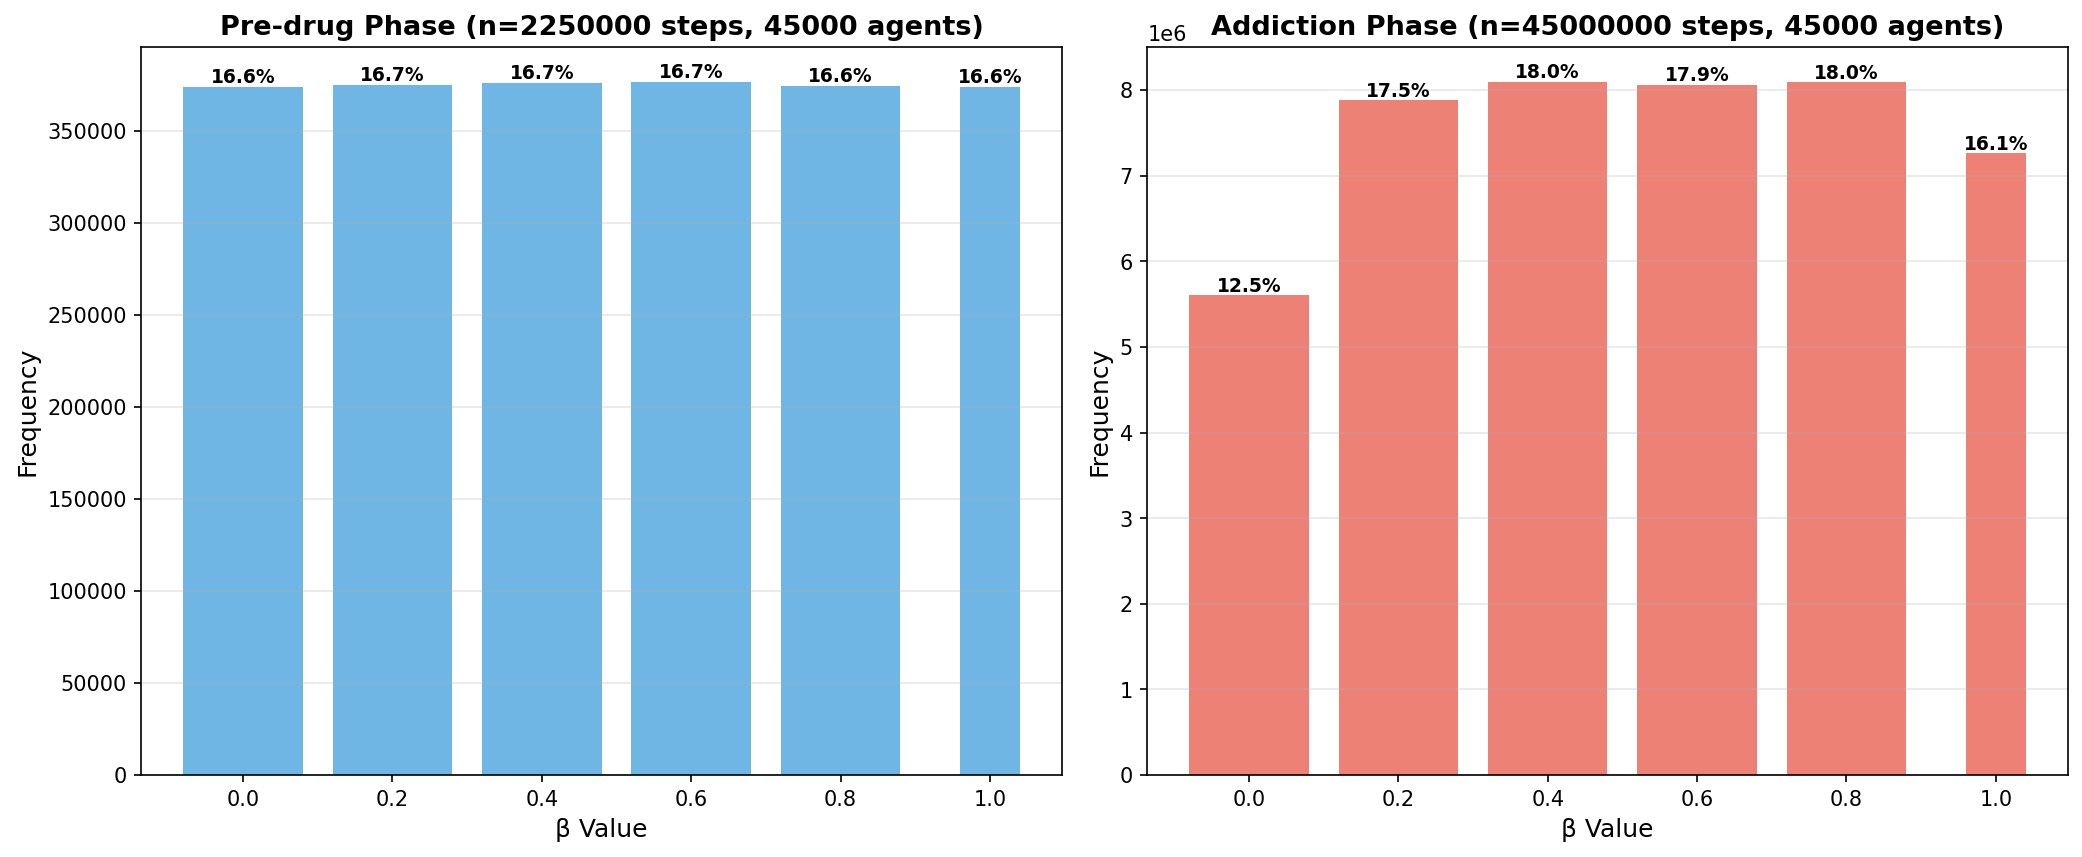
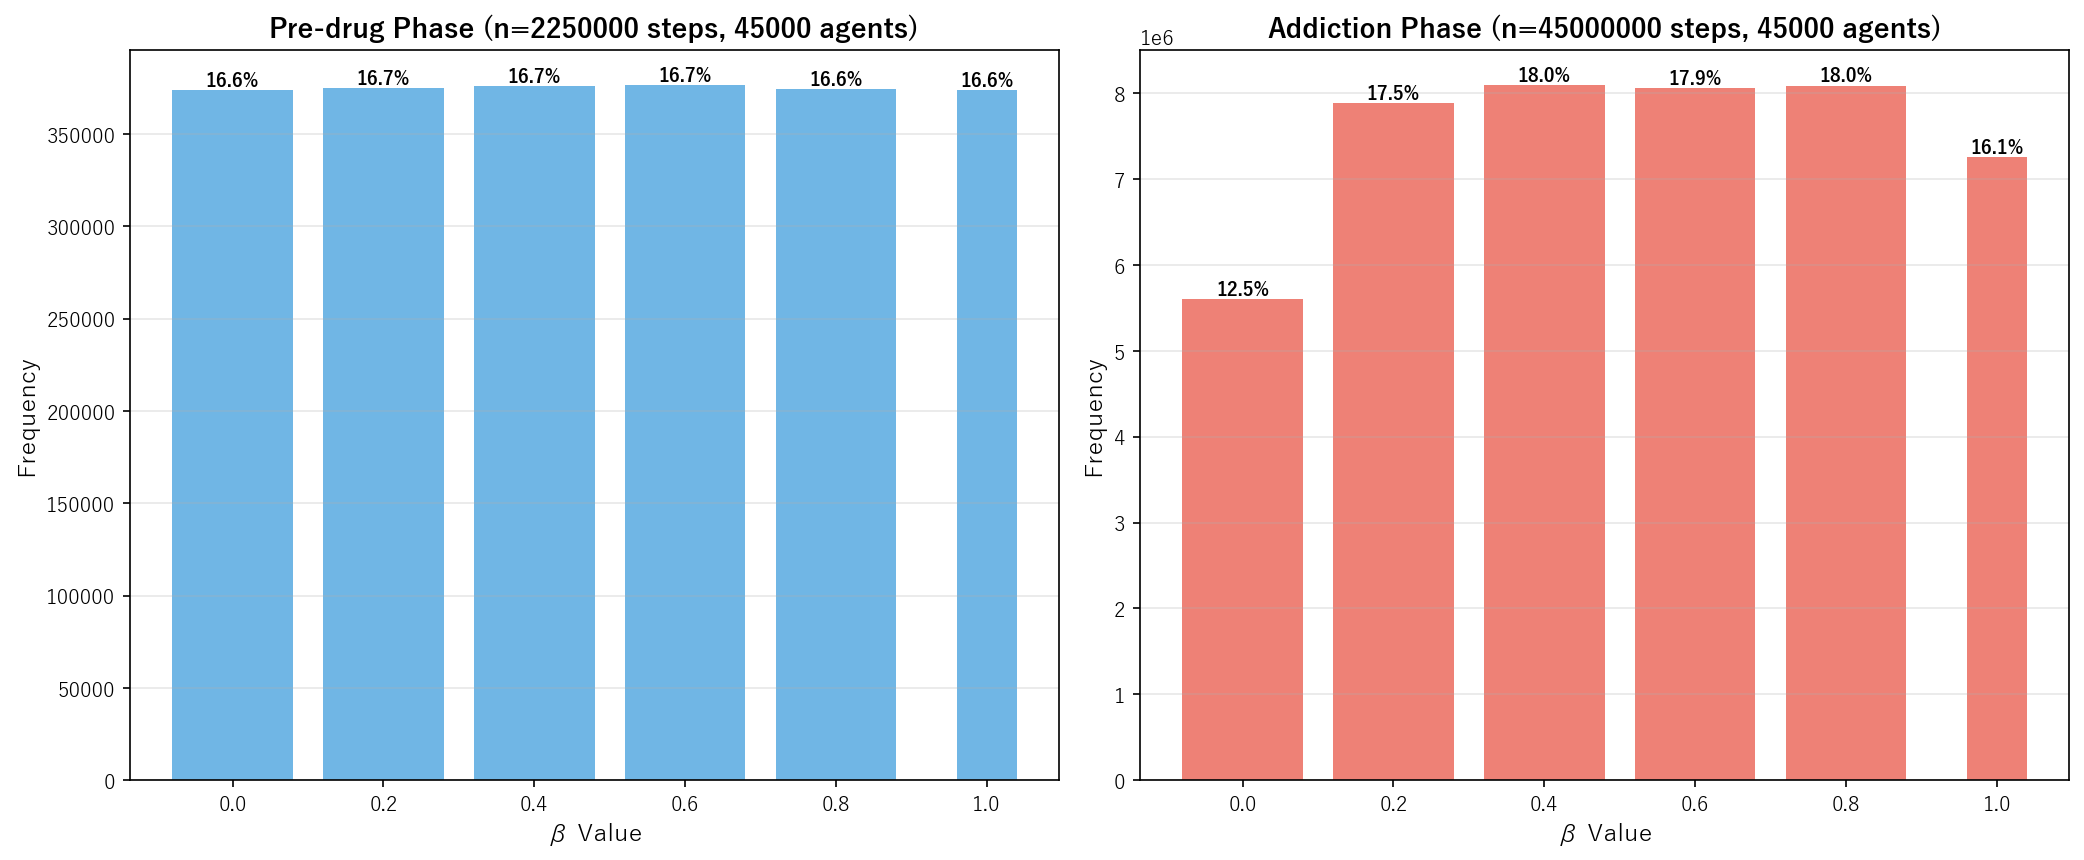
グラフ描画改善

diff --git a/addiction_rl_sim.py b/addiction_rl_sim.py
@@ -781,6 +781,11 @@ def plot_beta_analysis(beta_stats: BetaStatistics, output_prefix: str = "beta_an
     """β選択の分析グラフを複数作成（全エージェントの平均±標準偏差）"""
     import matplotlib.pyplot as plt
     from matplotlib.gridspec import GridSpec
+    import matplotlib
+    
+    # 日本語フォント設定（Windows環境）
+    matplotlib.rcParams['font.family'] = ['Yu Gothic', 'MS Gothic', 'Meiryo', 'sans-serif']
+    matplotlib.rcParams['axes.unicode_minus'] = False  # マイナス記号の文字化け対策
     
     # 全エージェントのデータを2次元配列に変換
     # beta_history_all: List[List[float]] -> (num_agents, num_steps)
@@ -1350,83 +1355,106 @@ def plot_beta_analysis(beta_stats: BetaStatistics, output_prefix: str = "beta_an
         print(f"Saved: {output_prefix}_detailed_analysis.png")
         plt.close()
         
-        # ===== Figure 7: 依存/非依存エージェントのβ選択推移（各β値の使用率の時系列） =====
+        # ===== Figure 7: 依存/非依存エージェントのβ選択推移（各β値の使用率の時系列、移動平均版） =====
         fig7, axes7 = plt.subplots(2, 1, figsize=(16, 10))
         
-        # 各時刻での各β値の使用頻度を計算
-        # Addicted group
-        beta_freq_add_over_time = np.zeros((len(BETA_VALUES), len(step_array)))
-        for agent_idx, is_addicted in enumerate(addiction_array):
-            if is_addicted:
-                for t_idx, beta_val in enumerate(beta_matrix[agent_idx]):
-                    beta_idx = np.argmin(np.abs(BETA_VALUES - beta_val))
-                    beta_freq_add_over_time[beta_idx, t_idx] += 1
+        # 時間窓の設定（移動平均のウィンドウサイズ）
+        window_size = 50  # 50ステップごとの移動平均
         
-        # 正規化（各時刻での割合に変換）
+        # ウィンドウの中心位置を計算
+        n_windows = len(step_array) // window_size
+        window_centers = []
+        
+        # 各β値の使用率を時間窓ごとに計算
+        beta_usage_addicted = {beta: [] for beta in BETA_VALUES}
+        beta_usage_non_addicted = {beta: [] for beta in BETA_VALUES}
+        
         n_addicted_agents = np.sum(addiction_array)
-        if n_addicted_agents > 0:
-            beta_freq_add_over_time = beta_freq_add_over_time / n_addicted_agents * 100
-        
-        # Non-addicted group
-        beta_freq_non_over_time = np.zeros((len(BETA_VALUES), len(step_array)))
-        for agent_idx, is_addicted in enumerate(addiction_array):
-            if not is_addicted:
-                for t_idx, beta_val in enumerate(beta_matrix[agent_idx]):
-                    beta_idx = np.argmin(np.abs(BETA_VALUES - beta_val))
-                    beta_freq_non_over_time[beta_idx, t_idx] += 1
-        
-        # 正規化
         n_non_addicted_agents = len(addiction_array) - n_addicted_agents
-        if n_non_addicted_agents > 0:
-            beta_freq_non_over_time = beta_freq_non_over_time / n_non_addicted_agents * 100
         
-        # Addicted群のプロット
-        ax7_1 = axes7[0]
+        for w in range(n_windows):
+            start_idx = w * window_size
+            end_idx = min((w + 1) * window_size, len(step_array))
+            window_centers.append(step_array[start_idx + (end_idx - start_idx) // 2])
+            
+            # 依存群: この時間窓でのβ値を収集
+            window_beta_addicted = []
+            for agent_idx, is_addicted in enumerate(addiction_array):
+                if is_addicted:
+                    window_beta_addicted.extend(beta_matrix[agent_idx, start_idx:end_idx])
+            
+            # 非依存群: この時間窓でのβ値を収集
+            window_beta_non_addicted = []
+            for agent_idx, is_addicted in enumerate(addiction_array):
+                if not is_addicted:
+                    window_beta_non_addicted.extend(beta_matrix[agent_idx, start_idx:end_idx])
+            
+            # 各β値の使用率を計算（依存群）
+            if len(window_beta_addicted) > 0:
+                for beta in BETA_VALUES:
+                    usage_rate = np.sum(np.isclose(window_beta_addicted, beta)) / len(window_beta_addicted) * 100
+                    beta_usage_addicted[beta].append(usage_rate)
+            else:
+                for beta in BETA_VALUES:
+                    beta_usage_addicted[beta].append(0)
+            
+            # 各β値の使用率を計算（非依存群）
+            if len(window_beta_non_addicted) > 0:
+                for beta in BETA_VALUES:
+                    usage_rate = np.sum(np.isclose(window_beta_non_addicted, beta)) / len(window_beta_non_addicted) * 100
+                    beta_usage_non_addicted[beta].append(usage_rate)
+            else:
+                for beta in BETA_VALUES:
+                    beta_usage_non_addicted[beta].append(0)
+        
+        # カラーマップ
         colors_beta = plt.cm.viridis(np.linspace(0, 1, len(BETA_VALUES)))
-        
-        for beta_idx, beta_val in enumerate(BETA_VALUES):
-            ax7_1.plot(step_array, beta_freq_add_over_time[beta_idx], 
-                      label=f'β={beta_val:.1f}', linewidth=2, 
-                      color=colors_beta[beta_idx], alpha=0.8)
         
         # フェーズ境界
         phase_boundary = np.where(np.diff(phase_mean) != 0)[0]
+        
+        # Addicted群のプロット（上段）
+        ax7_1 = axes7[0]
+        
+        for beta_idx, beta_val in enumerate(BETA_VALUES):
+            ax7_1.plot(window_centers, beta_usage_addicted[beta_val], 
+                      'o-', label=f'β={beta_val:.1f}', linewidth=2, markersize=4,
+                      color=colors_beta[beta_idx], alpha=0.8)
+        
+        # フェーズ境界を描画
         for boundary in phase_boundary:
-            ax7_1.axvline(step_array[boundary], color='red', linestyle='--', 
-                         linewidth=2, alpha=0.7, label='Phase Transition' if boundary == phase_boundary[0] else '')
+            ax7_1.axvline(step_array[boundary], color='gray', linestyle='--', 
+                         linewidth=1.5, alpha=0.5)
         
-        ax7_1.set_xlabel('Step', fontsize=12)
         ax7_1.set_ylabel('Usage Rate (%)', fontsize=12)
-        ax7_1.set_title(f'β Selection Dynamics: Addicted Group (n={n_addicted_agents} agents)', 
+        ax7_1.set_title(f'時間窓別β使用率: 依存群 (n={n_addicted_agents} agents)', 
                        fontsize=14, fontweight='bold')
-        ax7_1.legend(loc='upper right', fontsize=10, ncol=2)
+        ax7_1.legend(loc='best', fontsize=10, ncol=3)
         ax7_1.grid(True, alpha=0.3)
-        ax7_1.set_ylim(10, 25)
         
-        # Non-addicted群のプロット
+        # Non-addicted群のプロット（下段）
         ax7_2 = axes7[1]
         
         for beta_idx, beta_val in enumerate(BETA_VALUES):
-            ax7_2.plot(step_array, beta_freq_non_over_time[beta_idx], 
-                      label=f'β={beta_val:.1f}', linewidth=2,
+            ax7_2.plot(window_centers, beta_usage_non_addicted[beta_val], 
+                      'o-', label=f'β={beta_val:.1f}', linewidth=2, markersize=4,
                       color=colors_beta[beta_idx], alpha=0.8)
         
-        # フェーズ境界
+        # フェーズ境界を描画
         for boundary in phase_boundary:
-            ax7_2.axvline(step_array[boundary], color='red', linestyle='--',
-                         linewidth=2, alpha=0.7, label='Phase Transition' if boundary == phase_boundary[0] else '')
+            ax7_2.axvline(step_array[boundary], color='gray', linestyle='--',
+                         linewidth=1.5, alpha=0.5)
         
-        ax7_2.set_xlabel('Step', fontsize=12)
+        ax7_2.set_xlabel('Step (window center)', fontsize=12)
         ax7_2.set_ylabel('Usage Rate (%)', fontsize=12)
-        ax7_2.set_title(f'β Selection Dynamics: Non-addicted Group (n={n_non_addicted_agents} agents)', 
+        ax7_2.set_title(f'時間窓別β使用率: 非依存群 (n={n_non_addicted_agents} agents)', 
                        fontsize=14, fontweight='bold')
-        ax7_2.legend(loc='upper right', fontsize=10, ncol=2)
+        ax7_2.legend(loc='best', fontsize=10, ncol=3)
         ax7_2.grid(True, alpha=0.3)
-        ax7_2.set_ylim(6, 25)
         
         plt.tight_layout()
-        plt.savefig(f"{output_prefix}_beta_transition_comparison.png", dpi=150, bbox_inches='tight')
-        print(f"Saved: {output_prefix}_beta_transition_comparison.png")
+        plt.savefig(f"{output_prefix}_usage_timeseries.png", dpi=150, bbox_inches='tight')
+        print(f"Saved: {output_prefix}_usage_timeseries.png")
         plt.close()
     
     print("\n" + "="*60)
